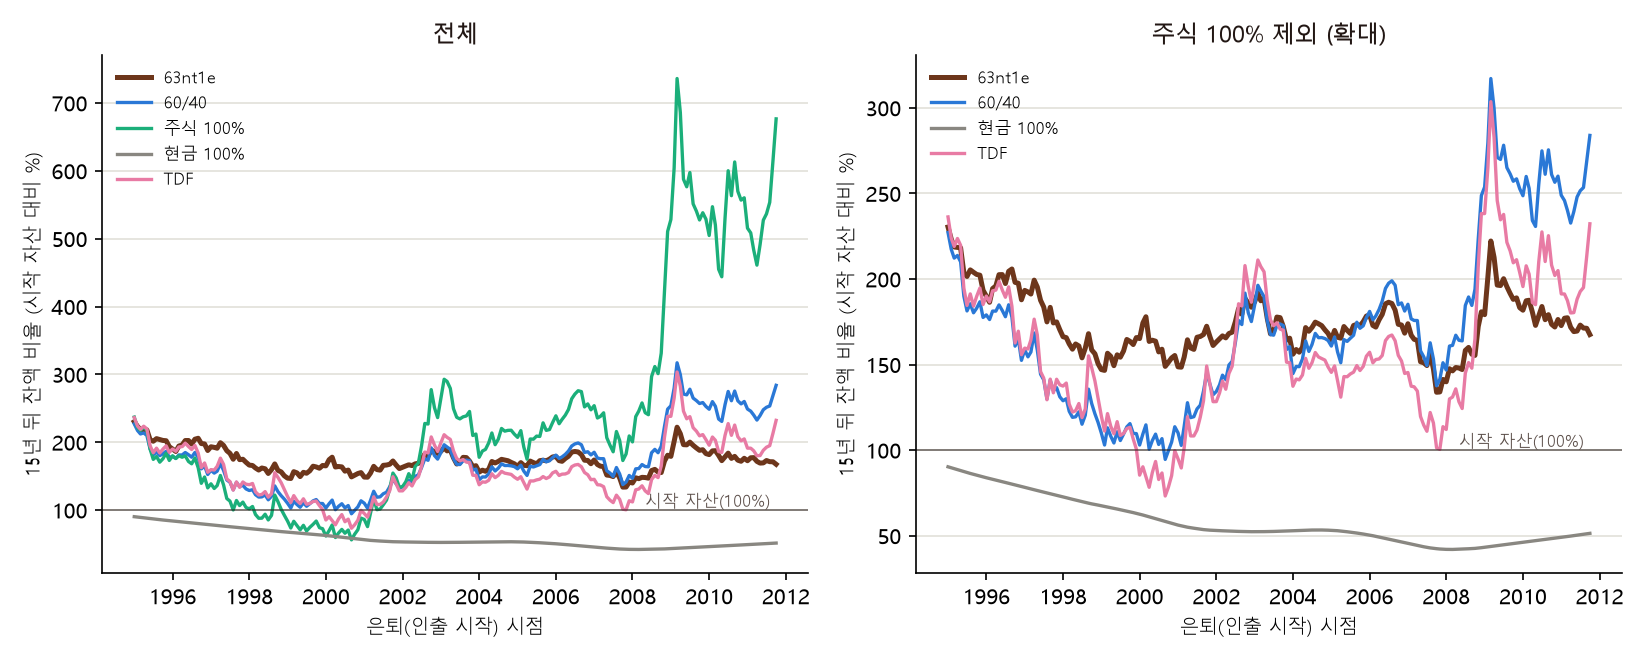
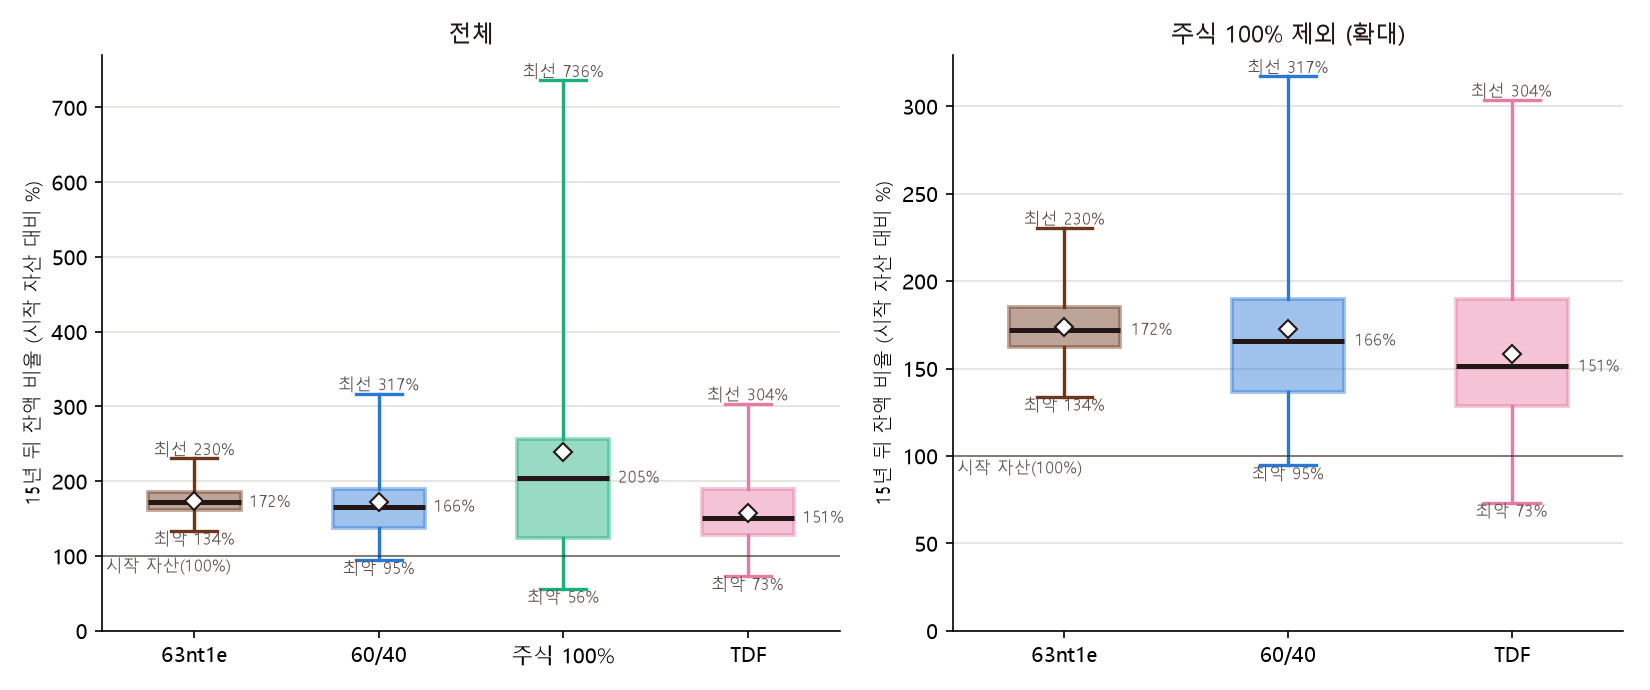
README·CLAUDE.md 정리: 분석 방법·폴더 구조·대시보드 구성 반영, 롤링 그림을 박스 차트로

diff --git a/src/rolling.py b/src/rolling.py
@@ -133,7 +133,8 @@ def report_block(res: dict, y: int = 15) -> dict:
 
 
 def plot_block(block: dict, path) -> None:
-    """README용 그림(PNG): 왼쪽 전체, 오른쪽은 주식 100%를 뺀 확대. x = 은퇴 시점, y = 15년 뒤 잔액 비율(%)."""
+    """README용 그림(PNG): 박스 차트. 가로 = 전략, 세로 = 15년 뒤 잔액 비율(%).
+    박스 = 25~75%, 굵은 선 = 중앙값, 위·아래 선 = 최선·최악, 마름모 = 평균. 현금 100%는 뺀다. 왼쪽 전체, 오른쪽은 주식 100% 제외(확대)."""
     import matplotlib
     matplotlib.use("Agg")
     import matplotlib.pyplot as plt
@@ -145,20 +146,32 @@ def plot_block(block: dict, path) -> None:
             break
     plt.rcParams["axes.unicode_minus"] = False
     colors = {"63nt1e": "#6D361B", "60/40": "#2a78d6", "stock100": "#1baf7a", "cash100": "#898781", "tdf": "#e87ba4"}
-    x = pd.to_datetime([m + "-01" for m in block["months"]])
-    fig, axes = plt.subplots(1, 2, figsize=(11, 4.4), dpi=150)
-    for ax, names, title in ((axes[0], NAMES, "전체"), (axes[1], [n for n in NAMES if n != "stock100"], "주식 100% 제외 (확대)")):
-        for n in names:
-            ax.plot(x, block["series"][n], color=colors[n], lw=2.4 if n == "63nt1e" else 1.6, label=LABELS[n])
+    fig, axes = plt.subplots(1, 2, figsize=(11, 4.6), dpi=150, gridspec_kw={"width_ratios": [1.1, 1]})
+    panels = (("전체", ["63nt1e", "60/40", "stock100", "tdf"]), ("주식 100% 제외 (확대)", ["63nt1e", "60/40", "tdf"]))
+    for ax, (title, names) in zip(axes, panels):
+        data = [block["series"][n] for n in names]
+        bp = ax.boxplot(data, positions=range(1, len(names) + 1), widths=0.5, whis=(0, 100), patch_artist=True, showmeans=True,
+                        meanprops={"marker": "D", "markerfacecolor": "white", "markeredgecolor": "#221714", "markersize": 6},
+                        medianprops={"color": "#221714", "linewidth": 2.4}, flierprops={"markersize": 0})
+        for patch, n in zip(bp["boxes"], names):
+            patch.set_facecolor(colors[n]); patch.set_alpha(0.45); patch.set_edgecolor(colors[n]); patch.set_linewidth(1.8)
+        for i, n in enumerate(names):
+            for k in (2 * i, 2 * i + 1):
+                bp["whiskers"][k].set_color(colors[n]); bp["whiskers"][k].set_linewidth(1.6)
+                bp["caps"][k].set_color(colors[n]); bp["caps"][k].set_linewidth(1.6)
+            v = data[i]
+            ax.text(i + 1 + 0.3, float(np.median(v)), f"{np.median(v):.0f}%", va="center", fontsize=8, color="#5b4e49")
+            ax.text(i + 1, float(max(v)), f"최선 {max(v):.0f}%", ha="center", va="bottom", fontsize=8, color="#5b4e49")
+            ax.text(i + 1, float(min(v)), f"최악 {min(v):.0f}%", ha="center", va="top", fontsize=8, color="#5b4e49")
         ax.axhline(100, color="#221714", lw=0.8, alpha=0.6)
-        ax.text(x[-1], 100, "시작 자산(100%) ", va="bottom", ha="right", fontsize=8, color="#5b4e49")
+        ax.text(0.52, 98, "시작 자산(100%)", va="top", fontsize=8, color="#5b4e49")
+        ax.set_xticks(range(1, len(names) + 1)); ax.set_xticklabels([LABELS[n] for n in names], fontsize=10)
         ax.set_title(title, fontsize=11, color="#221714")
-        ax.set_xlabel("은퇴(인출 시작) 시점", fontsize=9)
         ax.set_ylabel(f"{block['horizon']}년 뒤 잔액 비율 (시작 자산 대비 %)", fontsize=9)
+        ax.set_ylim(bottom=0)
         ax.grid(axis="y", color="#e1e0d9", lw=0.8)
-        for s in ("top", "right"):
-            ax.spines[s].set_visible(False)
-        ax.legend(fontsize=8, frameon=False, loc="upper left")
+        for sp in ("top", "right"):
+            ax.spines[sp].set_visible(False)
     fig.tight_layout()
     fig.savefig(path)
     plt.close(fig)

diff --git a/src/readme_fill.py b/src/readme_fill.py
@@ -78,9 +78,9 @@ def build_rolling(r: dict) -> str:
         f"{b['months'][0]}부터 {b['months'][-1]}까지 매월 은퇴했다고 가정하고(시작 월 {b['n_starts']}개, 15년을 채울 수 있는 마지막 시작 월까지), 모든 전략이 같은 시작 자산 {a_mult:.1f}A에서 15년 동안 인출했을 때 남은 돈입니다. "
         f"인출액은 월 A값(2026년)의 2/3로 시작해 매년 {rolling.WD_GROWTH * 100:.2f}%씩 늘어납니다. 63nt1e는 61세 비중으로 시작해 기존 규칙(글라이드, 분기 리밸런싱, 인출 순서)을 그대로 쓰고, 수익은 재투자(`INCOME_TO_CASH=False`)합니다.",
         "",
-        "![은퇴 시점별 15년 뒤 잔액 비율](reports/rolling_15y.png)",
+        "![은퇴 시점별 15년 뒤 잔액 비율 박스 차트](reports/rolling_15y.png)",
         "",
-        "가로축은 은퇴(인출 시작) 시점, 세로축은 15년 뒤 계좌에 남은 돈이 시작 자산의 몇 %인지입니다. 100%선 위면 15년 동안 생활비를 쓰고도 시작 자산 이상이 남은 것입니다(명목 기준).",
+        "박스 차트입니다. 가로축은 전략, 세로축은 15년 뒤 계좌에 남은 돈이 시작 자산의 몇 %인지이고, 박스는 은퇴 시점 202개 결과의 가운데 절반(25~75%), 굵은 선은 중앙값, 위·아래 선은 최선·최악, 마름모는 평균입니다. 박스가 짧을수록 은퇴 시점에 덜 좌우된다는 뜻이고, 100%선 위면 15년 동안 생활비를 쓰고도 시작 자산 이상이 남은 것입니다(명목 기준, 현금 100%는 그림에서 뺐습니다).",
         "",
         "| 전략 | 최악 | 하위 10% | 중앙값 | 최선 | 바닥난 시작 월 수 | 최악이었던 은퇴 시점 |",
         "|---|---|---|---|---|---|---|",

diff --git a/CLAUDE.md b/CLAUDE.md
@@ -148,48 +148,53 @@ leaf 목표 비중
 
 연평균 수익률(CAGR), 변동성, 최대낙폭, 회복기간, 61세 적립금(A값 배수·원화), 인컴 커버리지(인컴 ÷ 인출액), 고갈 확률(선택 나이까지), 선택 나이의 잔여자산 분포(중앙값, 하위 10%), 고갈 나이 분포.
 
+### 2.10 대시보드
+
+- 단일 HTML (+ 사전 계산 JSON/JS). 기대수명 슬라이더 80~100세, 기본 90세. 슬라이더는 4절(인출기)에 둔다. 표시선: 남성 86.3세 / 여성 90.7세 (보험개발원 제10회 경험생명표, 2024).
+- **핵심 메시지는 안정성**이다. 맨 위 "읽기 전에"(A값·비교 대상(TDF 포함)·몬테카를로 설명) 다음에 "한눈에 보기"로 안정성의 근거 4가지(최대낙폭, 가장 나쁜 은퇴 시점의 15년 뒤 잔액, 은퇴 시점에 따른 흔들림, 배당·이자의 생활비 충당)와 **대가**(수익률, 장수 시 고갈 확률)를 함께 보여 준다.
+- 본문은 질문 순서로 구성한다: 1 가입 기간(적립금 추이·낙폭·31년 성적표) → 2 은퇴 시점(롤링 15년 뒤 잔액, 박스 차트: 가로 전략·세로 잔액 비율, 현금 100% 제외·주식 100%는 기본 숨김) → 3 은퇴 후 생활비(인컴 커버리지) → 4 오래 살면(슬라이더, 누적 고갈 확률) → 5 안정성의 원천(글라이드패스 비중). 탭은 쓰지 않는다.
+- 각 절은 **결론 한 줄 → 그래프·표 → 의미·해석·대가·주의** 순서다. "보는 법" 같은 사용법이 아니라, 수치가 무엇을 뜻하는지와 그에 따른 해석을 쓴다. 해석 문장의 숫자·비교("가장 작다" 등)는 모두 데이터에서 계산해 만들고, 전략이 불리한 항목(수익률, 장수 시 고갈 확률, 중앙값)도 숨기지 않고 "대가"로 적는다.
+- 적립금 추이와 낙폭 차트는 63nt1e·60/40·TDF를 기본으로 보이게 하고 전략 칩으로 켜고 끈다. 낙폭 차트 위에는 전략별 최대낙폭을 표시한다. 한눈에 보기의 인컴 커버리지는 보유 자산 전체 기준(큰 숫자)과 인컴 버킷만 기준을 함께 쓴다.
+- 모든 그래프에는 표로 보기를 둔다. 인출액·시드는 고정(조절 불가).
+- 브랜드 색: 갈색 `#6D361B`(6·3), 흑갈색 `#221714`(본문), 파랑 `#5078A5`(1, 글라이드패스). 로고 `assets/63nt1e_logo.svg`.
+
 ### 2.11 은퇴 시점별 인출기 롤링 분석 (`src/rolling.py`)
 
 - 모든 전략이 같은 시작 자산(적립기 결과 255.6A)으로 은퇴하고, 시작 월을 매월 밀어 가며 10·15·20년 인출한다. 15년을 채울 수 없는 시작 월은 제외(현재 데이터로 202개월, 1995-01~2011-10). 적립기는 다시 돌리지 않는다.
 - 63nt1e는 시작 시 61세 비중으로 투입하고 기존 규칙(글라이드, 분기 리밸런싱, 인출 순서)을 그대로 쓴다. 나이는 시작 달력 연도가 61세, 이후 달력 연도마다 +1.
 - 인출액은 월 A2026 × (1+0.0432)^(경과 연수) × 2/3(연 단위 증가), 모든 시작 시점에 같은 경로. 수익 재투자(`INCOME_TO_CASH=False`)로 실행.
-- 출력: 전략별 종료 잔액 비율(시작 대비 %)의 최악·하위 10%·중앙값·최선과 바닥난 시작 월 수, 최악 시작 월, 시작 월별 차트 데이터. README 6절·대시보드에는 15년 뒤 잔액 비율 차트와 요약 표를 싣는다. 확장 데이터(1972~)로 같은 코드를 재실행할 수 있다(2단계 예정).
-
-### 2.10 대시보드
-
-- 단일 HTML (+ 사전 계산 JSON/JS). 기대수명 슬라이더 80~100세, 기본 90세. 슬라이더는 4절(인출기)에 둔다. 표시선: 남성 86.3세 / 여성 90.7세 (보험개발원 제10회 경험생명표, 2024).
-- **핵심 메시지는 안정성**이다. 맨 위 "읽기 전에"(A값·비교 대상(TDF 포함)·몬테카를로 설명) 다음에 "한눈에 보기"로 안정성의 근거 4가지(최대낙폭, 가장 나쁜 은퇴 시점의 15년 뒤 잔액, 은퇴 시점에 따른 흔들림, 배당·이자의 생활비 충당)와 **대가**(수익률, 장수 시 고갈 확률)를 함께 보여 준다.
-- 본문은 질문 순서로 구성한다: 1 가입 기간(적립금 추이·낙폭·31년 성적표) → 2 은퇴 시점(롤링 15년 뒤 잔액) → 3 은퇴 후 생활비(인컴 커버리지) → 4 오래 살면(슬라이더, 누적 고갈 확률) → 5 안정성의 원천(글라이드패스 비중). 탭은 쓰지 않는다.
-- 각 절은 **결론 한 줄 → 그래프·표 → 의미·해석·대가·주의** 순서다. "보는 법" 같은 사용법이 아니라, 수치가 무엇을 뜻하는지와 그에 따른 해석을 쓴다. 해석 문장의 숫자·비교("가장 작다" 등)는 모두 데이터에서 계산해 만들고, 전략이 불리한 항목(수익률, 장수 시 고갈 확률, 중앙값)도 숨기지 않고 "대가"로 적는다.
-- 모든 그래프에는 표로 보기를 둔다. 인출액·시드는 고정(조절 불가).
-- 브랜드 색: 갈색 `#6D361B`(6·3), 흑갈색 `#221714`(본문), 파랑 `#5078A5`(1, 글라이드패스). 로고 `assets/63nt1e_logo.svg`.
+- 출력: 전략별 종료 잔액 비율(시작 대비 %)의 최악·하위 10%·중앙값·최선과 바닥난 시작 월 수, 최악 시작 월, 시작 월별 차트 데이터. README 6절(박스 차트 PNG와 표)·대시보드 2절(박스 차트)에 15년 뒤 잔액 비율과 변동성 지표(평균·표준편차·변동폭·변동계수)를 싣는다. 확장 데이터(1972~)로 같은 코드를 재실행할 수 있다(2단계 예정).
 
 ---
 
-## 3. 폴더 구조 (제안)
+## 3. 폴더 구조
 
 ```
 63nt1e/
 ├── CLAUDE.md
+├── HANDOFF.md             # 인계 메모 (데이터 준비 상태·확정 결정)
 ├── README.md
 ├── config.py              # 모든 파라미터 (아래 4절)
 ├── assets/63nt1e_logo.svg
 ├── data/
 │   ├── raw/               # 내려받은 원본 (수정 금지)
-│   └── processed/         # 이어붙인 월별 TR·인컴, A값 시계열
+│   └── processed/         # 이어붙인 월별 TR·인컴·가격 성분
 ├── src/
-│   ├── fetch.py           # yfinance, FRED, 금 현물, A값 수집
-│   ├── splice.py          # 대리 자산 → ETF 이어붙이기, 인컴 분리
-│   ├── a_value.py         # A값 연도말 시계열, CAGR 연장
+│   ├── fetch.py           # yfinance, FRED 수집 (금 현물·A값·VEIPX 분배는 data/raw에 직접 준비)
+│   ├── splice.py          # 대리 자산 → ETF 이어붙이기, TR·인컴·가격 성분 분리
+│   ├── a_value.py         # A값 시계열, CAGR 연장
 │   ├── glide.py           # 나이 → leaf 목표 비중
-│   ├── rebalance.py       # 매월·분기 규칙
+│   ├── rebalance.py       # 매월·분기 규칙 (백테스트·몬테카를로·롤링이 공유)
 │   ├── backtest.py        # 1995-01 ~ 최신월 시뮬레이션
 │   ├── benchmarks.py
 │   ├── montecarlo.py
+│   ├── rolling.py         # 은퇴 시점별 롤링 분석 (2.11)
 │   ├── metrics.py
-│   └── export.py          # 대시보드용 JSON
-├── dashboard/index.html
-├── reports/               # 차트, 표
+│   ├── report.py          # 전체 실행 → reports/results.json
+│   ├── readme_fill.py     # results.json → README 6절 (표·그림·문장)
+│   └── export.py          # 대시보드용 데이터 (dashboard/data.js, data.json)
+├── dashboard/             # index.html + data.js/data.json
+├── reports/               # results.json, rolling_15y.png
 └── tests/
 ```
 
@@ -257,3 +262,6 @@ GOLD_FEE_ADJ = False
 - [ ] 5절 TR 공개값을 운용사 공식 자료와 대조 (VUSTX 1995는 30.2%로 정정, 운용사 공식값 미확인)
 - [x] 몬테카를로 블록 6개월 민감도 (README 6·8절)
 - [x] 백테스트 → 몬테카를로 → 대시보드 → README 결과 채우기 (`python -m src.report` → `src.readme_fill` → `src.export`)
+- [x] 은퇴 시점별 롤링 분석 1단계(1995~ 데이터, 10·15·20년) → README·대시보드 반영 (`src/rolling.py`)
+- [ ] 롤링 분석 2단계: 1972년부터 확장 데이터를 추가해 같은 코드(`rolling.run_rolling`)로 재실행 (데이터 파일 안내 필요)
+- [ ] GitHub 저장소 `018lim/63nt1e` 연결과 push
